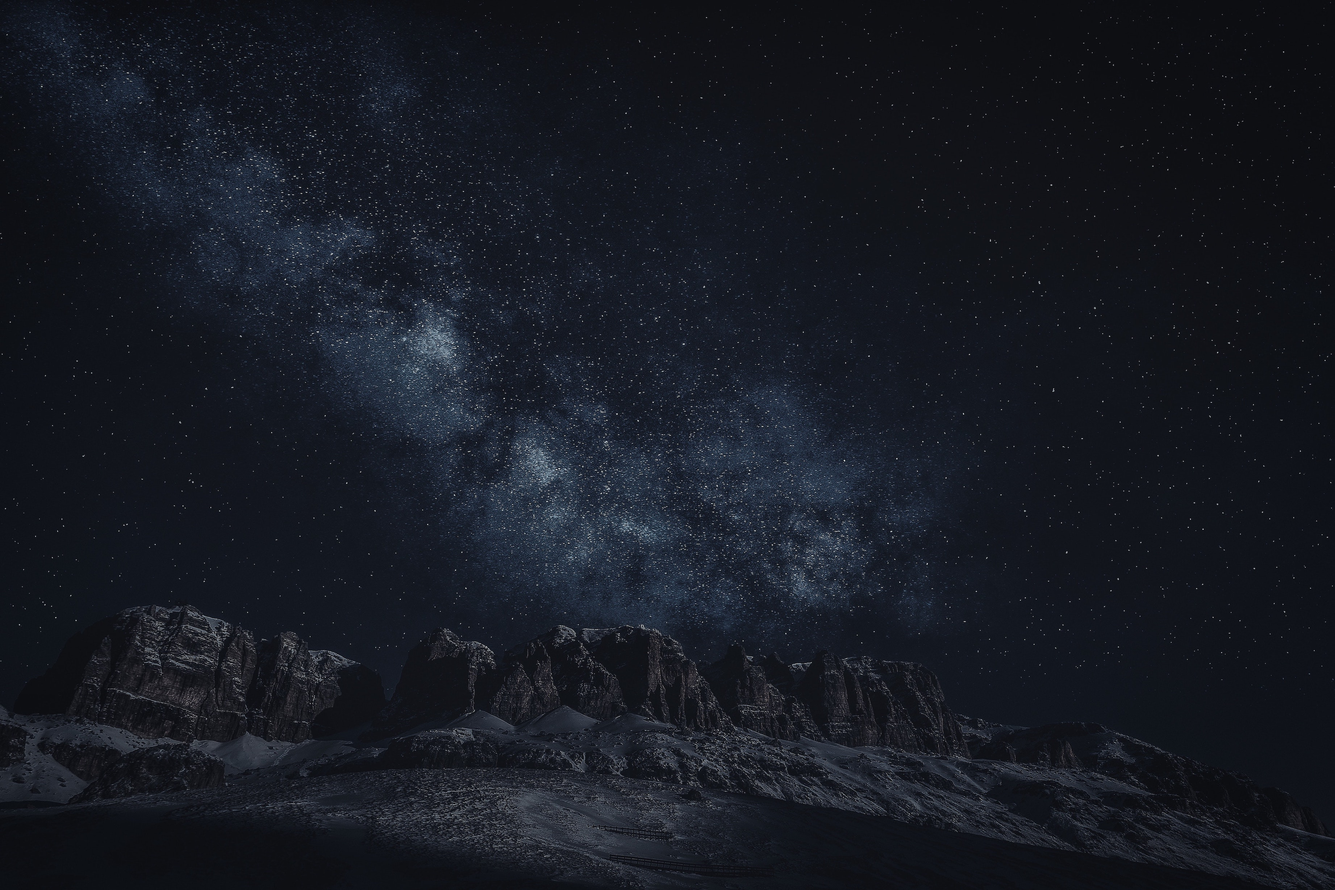
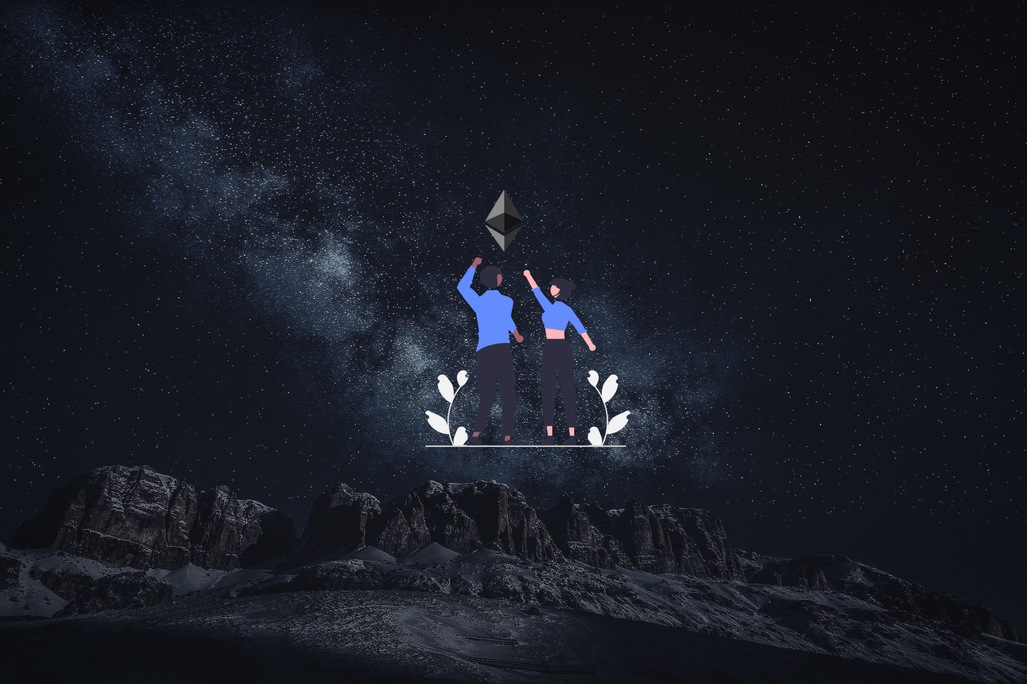
image edited

diff --git a/frontend/pages/index.js b/frontend/pages/index.js
@@ -5,7 +5,7 @@ import { CONTRACT_ADDRESS, CONTRACT_ABI } from "../constants";
 import Link from "next/link";
 import Button from "../components/Button";
 import NavigationBar from "../components/NavigationBar";
-// import Image from "../components/WelcomeImage";
+import Image from "../components/WelcomeImage";
 import SideBar from "../components/SideBar";
 import WalletConnectProvider from "@walletconnect/web3-provider";
 import { ToastContainer, toast } from "react-toastify";
@@ -140,7 +140,7 @@ export default function Home() {
       </div>
 
       <div className="mt-16 flex justify-center">
-            {/* <Image/> */}
+            {/* <WelcomeImage /> */}
       </div>
 
     </>

diff --git a/frontend/components/WelcomeImage.js b/frontend/components/WelcomeImage.js
@@ -5,9 +5,9 @@ export default function WelcomeImage( props ) {
   return (
     <div className='text-white text-2xl'>
       Welcome
+       <img src={require('../public/cryptodevs/4.svg')} alt="Welcome Picture"
+         width={400}
+        height={400} />
     </div>
-    // <Image src={require('../public/cryptodevs/4.svg')} alt="Welcome Picture"
-    //   width={400}
-    //   height={400} />
   )
 }
